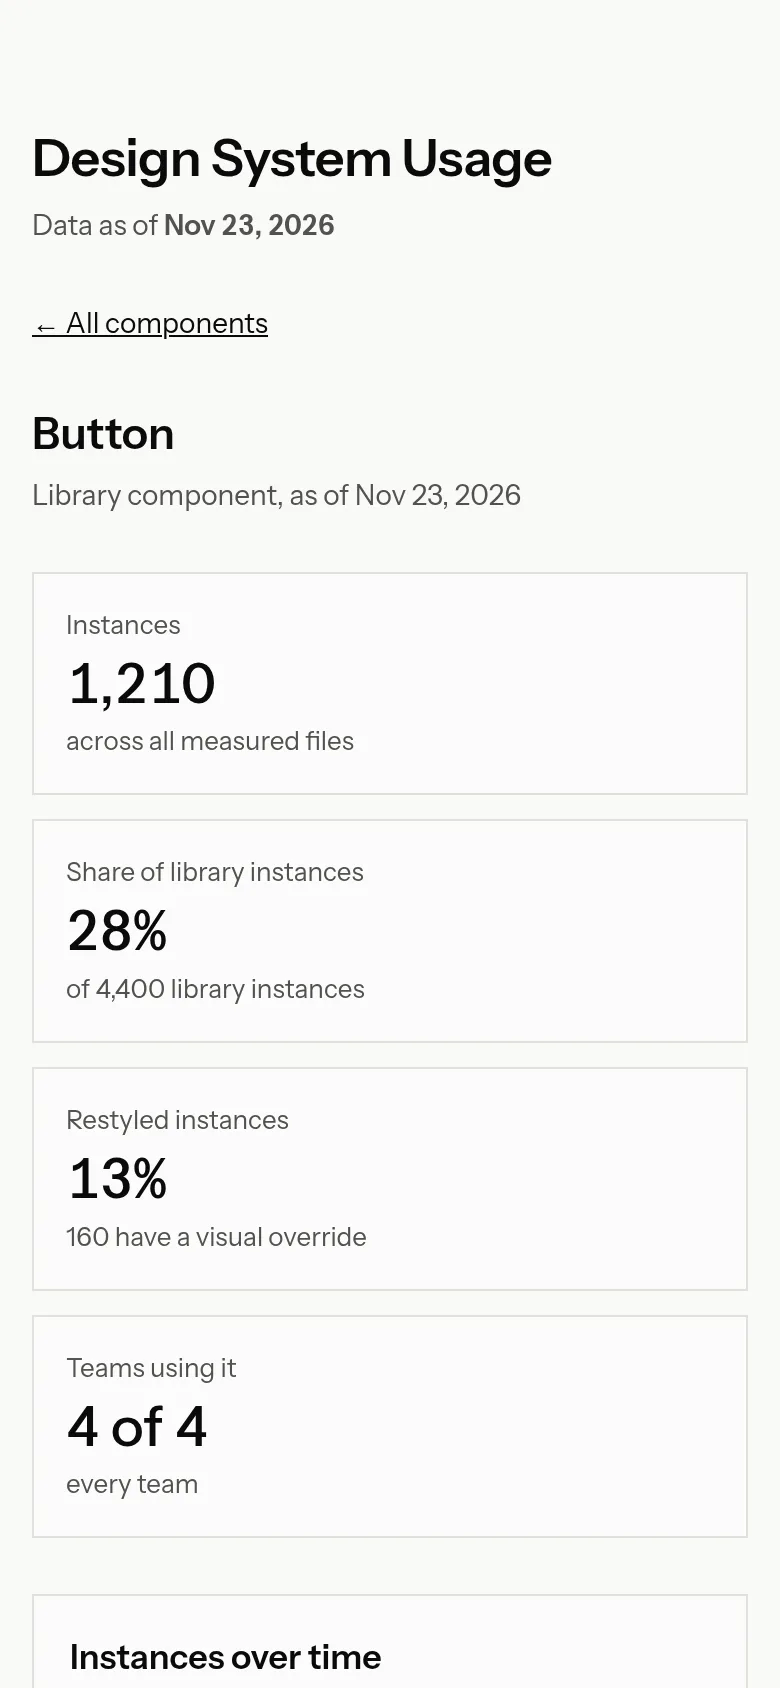
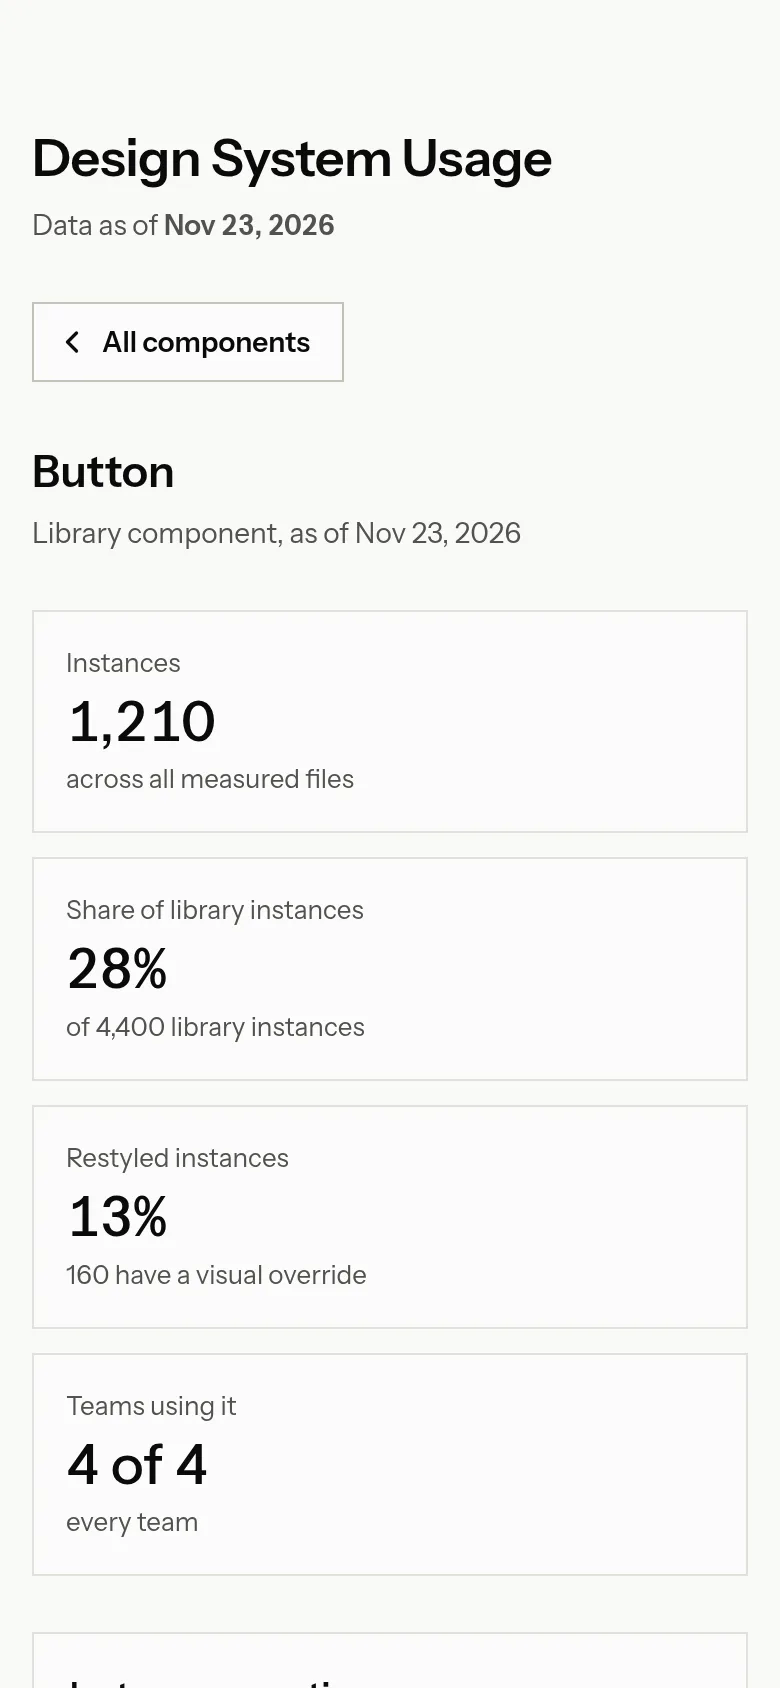
Make the component page's back link a button with a chevron
The "← All components" text link was small and easy to miss. It is now an
outlined button with a chevron icon, a 40px tap target and hover and focus
states, matching the dashboard's other buttons. The landing page's component
screenshot is retaken to show it.

diff --git a/site/index.html b/site/index.html
@@ -111,7 +111,14 @@
   a.bar:hover .label, a.bar:focus-visible .label { text-decoration: underline; }
   a.bar:focus-visible { outline: 2px solid var(--meter); outline-offset: 2px; }
   #detail { width: 100%; }
-  .back { color: var(--ink); font-size: 14px; align-self: flex-start; }
+  .back {
+    display: inline-flex; align-items: center; gap: 6px; align-self: flex-start; min-height: 40px; padding: 0 16px 0 10px;
+    border: 1px solid var(--axis); background: var(--surface); color: var(--ink);
+    font-size: 14px; font-weight: 600; text-decoration: none;
+  }
+  .back svg { width: 18px; height: 18px; flex: 0 0 auto; fill: none; stroke: currentColor; stroke-width: 2.2; stroke-linecap: round; stroke-linejoin: round; }
+  .back:hover { border-color: var(--ink2); background: var(--page); }
+  .back:focus-visible { outline: 2px solid var(--meter); outline-offset: 2px; }
   .detail-head { display: flex; flex-direction: column; gap: 4px; }
   .detail-head h2 { font-size: clamp(22px, 3vw, 30px); }
   .detail-head p { color: var(--ink2); font-size: 14px; }
@@ -629,7 +636,7 @@
       return '<div class="tile"><span class="label">' + label + '</span><span class="value">' + value + '</span><span class="delta">' + note + '</span></div>';
     };
     el('detail').innerHTML =
-      '<a class="back" href="#">← All components</a>' +
+      '<a class="back" href="#"><svg viewBox="0 0 24 24" aria-hidden="true"><path d="M15 18l-6-6 6-6"/></svg>All components</a>' +
       '<div class="detail-head"><h2>' + esc(component.name) + '</h2><p>Library component, as of ' + longDate(latest.date) + '</p></div>' +
       '<div class="tiles">' +
         tile('Instances', fmt(component.instances), 'across all measured files') +
